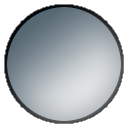
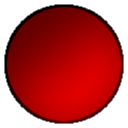
added graphics

diff --git a/soft_eng/game.js b/soft_eng/game.js
@@ -33,8 +33,25 @@ soft_eng.Game = function(director, level) {
 	layer.setPosition(0, 0);
 	scene.appendChild(layer);
 	
-	backgroundSprite = new lime.Sprite().setSize(soft_eng.WIDTH, soft_eng.HEIGHT).setFill('#a5ff00').setAnchorPoint(0,0);
-	layer.appendChild(backgroundSprite);
+	//backgroundSprite = new lime.Sprite().setSize(soft_eng.WIDTH, soft_eng.HEIGHT).setFill('#a5ff00').setAnchorPoint(0,0);
+	//layer.appendChild(backgroundSprite);
+    
+    var addBackgroundToScene = function (scene) {
+		var bgSize = 320;
+		var bgInterval = 450;
+
+		for (var x = 0; x < soft_eng.WIDTH + 100; x += 125) {
+			for (var y = 0; y < soft_eng.HEIGHT + 100; y += 125) {
+				var bgSprite = new lime.Sprite()
+					.setSize(bgSize, bgSize)
+					.setFill("assets/open.png")
+					.setAnchorPoint(0, 0)
+					.setPosition(x, y);
+				scene.appendChild(bgSprite);
+			}
+		}
+	}
+    addBackgroundToScene(layer);
 
 	//debugging labels
 	var xLabel = new lime.Label('').setAnchorPoint(0, 0).setPosition(20, 20);
@@ -43,7 +60,7 @@ soft_eng.Game = function(director, level) {
 	scene.appendChild(xLabel);
 	scene.appendChild(yLabel);
 	scene.appendChild(zLabel);
-	
+    
 	var ballAcceleration = {},
 	prevAcceleration = {};
     var world = new b2World(new b2Vec2(0, 0), true);
@@ -105,7 +122,7 @@ soft_eng.Game = function(director, level) {
         }
         console.log("Exiting Maze loop");
         console.log("Entering Game loop");
-        // http://stackoverflow.com/questions/12317040/box2dweb-walls-dont-bounce-a-slow-object
+        // http://stackoverflow.com/questions/12317040/box2dwebEMPTY-walls-dont-bounce-a-slow-object
         //Box2D.Common.b2Settings.b2_velocityThreshold = 0.0;
         // game loop
         lime.scheduleManager.setDisplayRate(FRAME_RATE);

diff --git a/soft_eng/soft_eng.js b/soft_eng/soft_eng.js
@@ -54,7 +54,7 @@ soft_eng.loadMainMenu = function() {
 	layer.appendChild(buttonsLayer);
 	
 	// add play button
-	var playButton = soft_eng.makeButton('Play Game').setPosition(0, 100);
+	var playButton = soft_eng.makeButton('Play Game').setPosition(0, 80);
 	goog.events.listen(playButton, 'click', function() {
 		// play the game!!!
 		soft_eng.newGame();
@@ -62,12 +62,19 @@ soft_eng.loadMainMenu = function() {
 	buttonsLayer.appendChild(playButton);
 	
 	// add Help button
-	var helpButton = soft_eng.makeButton('Help').setPosition(0, 170);
+	var helpButton = soft_eng.makeButton('Help').setPosition(0, 150);
 	goog.events.listen(helpButton, 'click', function() {
 		// show help window
 		soft_eng.loadHelpScene();
 	});
 	buttonsLayer.appendChild(helpButton);
+    
+	// add Help button
+	var aboutButton = soft_eng.makeButton('About').setPosition(0, 220);
+	goog.events.listen(aboutButton, 'click', function() {
+		alert('Created by Andrew Blackbourn and Mohamed Ibrahim.\nCopyright 2012 Licensed under BSD 2-clause license ("Simplified BSD License" or "FreeBSD License")');
+	});
+	buttonsLayer.appendChild(aboutButton);
 	
 	// add the layer to the scene and view scene
 	scene.appendChild(layer);

diff --git a/soft_eng/levels.js b/soft_eng/levels.js
@@ -51,6 +51,23 @@ Levels = [
 		[4, 0, 0, 0, 0, 0, 0, 0, 0, 4],
 		[4, 1, 0, 0, 0, 0, 0, 0, 0, 4],
 		[4, 4, 4, 4, 4, 4, 4, 4, 4, 4]
+	],
+    /* 4 */
+	[
+		[4, 4, 4, 4, 4, 4, 4, 4, 4, 4],
+		[4, 0, 3, 0, 0, 0, 0, 0, 0, 4],
+		[4, 0, 0, 0, 0, 0, 0, 0, 2, 4],
+		[4, 1, 3, 0, 0, 0, 4, 0, 0, 4],
+		[4, 0, 0, 0, 0, 4, 4, 4, 0, 4],
+		[4, 0, 0, 4, 0, 0, 4, 0, 0, 4],
+		[4, 0, 4, 4, 4, 0, 0, 0, 1, 4],
+		[4, 0, 0, 4, 0, 0, 0, 0, 0, 4],
+		[4, 0, 0, 0, 0, 4, 0, 0, 0, 4],
+		[4, 0, 0, 0, 4, 4, 4, 0, 0, 4],
+		[4, 0, 0, 0, 0, 4, 0, 0, 0, 4],
+		[4, 0, 0, 0, 0, 0, 0, 0, 0, 4],
+		[4, 1, 0, 0, 3, 3, 0, 0, 0, 4],
+		[4, 4, 4, 4, 4, 4, 4, 4, 4, 4]
 	]
 ];
 

diff --git a/soft_eng/goal.js b/soft_eng/goal.js
@@ -25,7 +25,7 @@ soft_eng.Goal = function(pos, world)
 	this.body.SetUserData(data);
 	
 	this.sprite = (new lime.Circle)
-		.setFill('assets/block.png')
+		.setFill('assets/goal.png')
 		.setSize(soft_eng.Constants.cellSize * soft_eng.SCALE, soft_eng.Constants.cellSize * soft_eng.SCALE)
 		.setPosition(this.body.GetWorldCenter().x * soft_eng.SCALE, this.body.GetWorldCenter().y * soft_eng.SCALE);
 }

diff --git a/soft_eng/trap.js b/soft_eng/trap.js
@@ -24,7 +24,7 @@ soft_eng.Trap = function(pos, world)
 	this.body.SetUserData(data);
 	
 	this.sprite = (new lime.Circle())
-		.setFill(0,0,0)
+		.setFill("assets/trap.png")
 		.setSize(cellSize * soft_eng.SCALE * 0.95, cellSize * soft_eng.SCALE * 0.95)
 		.setPosition(this.body.GetWorldCenter().x * soft_eng.SCALE, this.body.GetWorldCenter().y * soft_eng.SCALE);
 }

diff --git a/soft_eng/WorldListener.js b/soft_eng/WorldListener.js
@@ -42,7 +42,7 @@ soft_eng.WorldListener = function(game) {
 			} else {
             }
 		} else if (contactDataA == MazeEnum.BLOCK) {
-            if (impulse.normalImpulses[0] < 0.05) return;
+            if (impulse.normalImpulses[0] < 0.025) return;
             self.wallhitsnd.seekTo(0);
             self.wallhitsnd.play();
         }

diff --git a/soft_eng/ball.js b/soft_eng/ball.js
@@ -25,6 +25,6 @@ soft_eng.Ball = function(pos, world) {
 	this.body.SetUserData(data);
 	
 	this.sprite = (new lime.Circle)
-		.setFill('#FF0000')
+		.setFill("assets/p.png")
 		.setSize(radius * soft_eng.SCALE, radius * soft_eng.SCALE);
 }

diff --git a/android/src/com/blackbourna/softeng/MainActivity.java b/android/src/com/blackbourna/softeng/MainActivity.java
@@ -28,8 +28,14 @@ public class MainActivity extends DroidGap {
 		super.onDestroy();
 	}
 
+	
 
-
+	@Override
+	protected void onPause() {
+		// TODO Auto-generated method stub
+		super.onPause();
+		this.finish();
+	}
 	@Override
     public boolean onCreateOptionsMenu(Menu menu) {
         getMenuInflater().inflate(R.menu.activity_main, menu);
